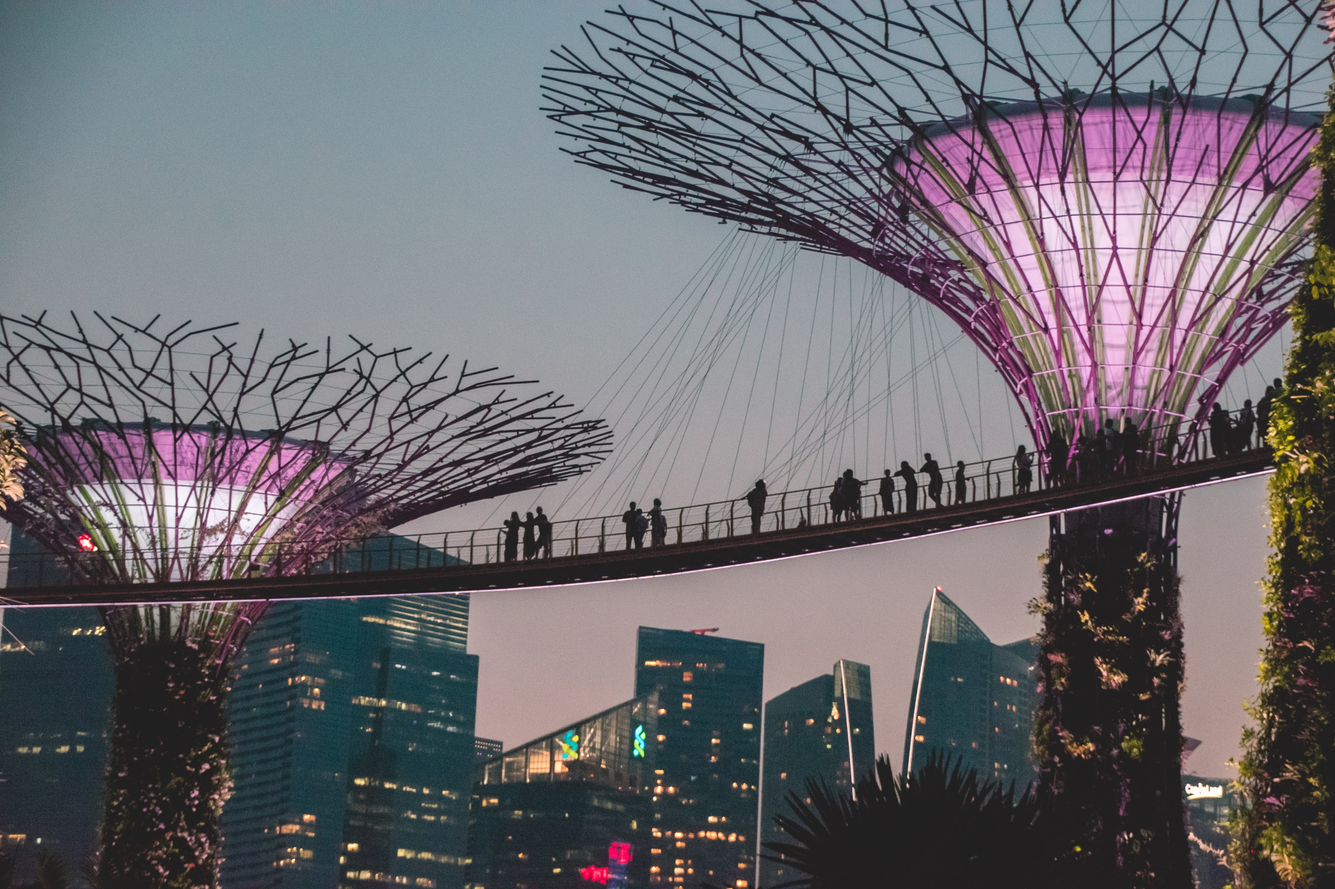
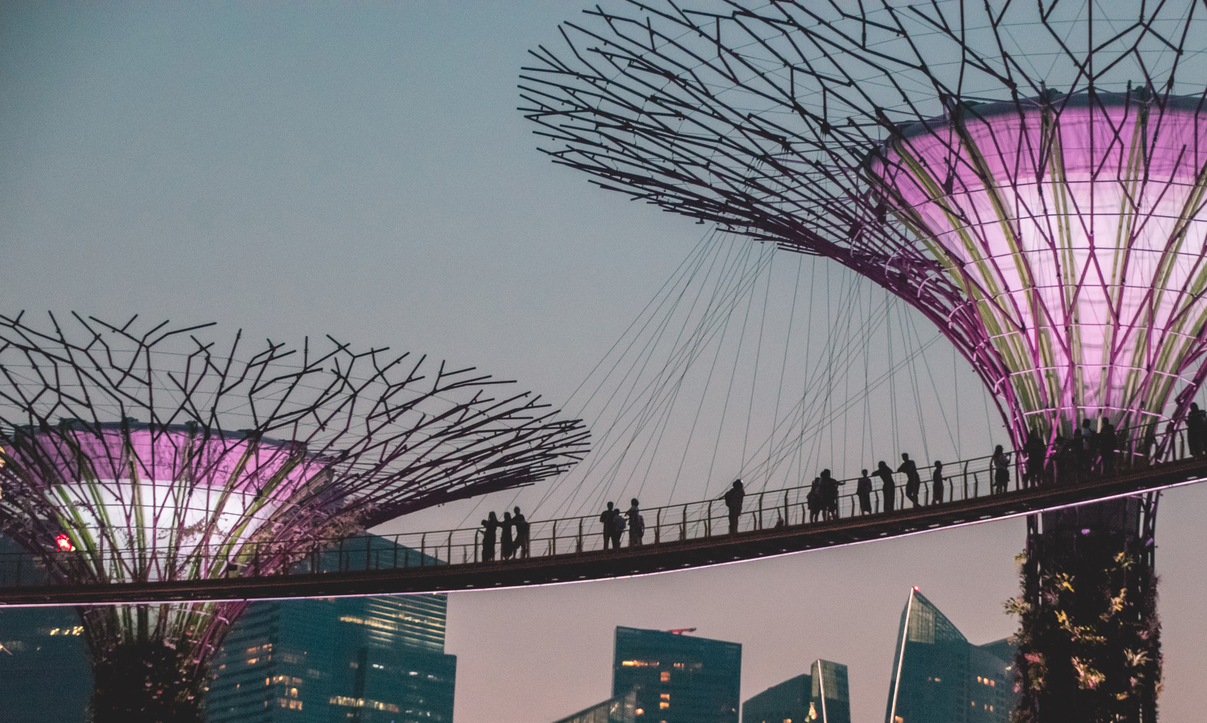
Resized and cropped slideshow images and switched to Next Image components for loading speed optimization purposes

diff --git a/components/WelcomeBanner.tsx b/components/WelcomeBanner.tsx
@@ -2,6 +2,7 @@
 import React, { useState, useEffect } from "react";
 import { useRouter } from "next/router";
 import styles from "../styles/WelcomeBanner.module.scss";
+import Image from "next/image";
 
 const Slideshow: React.FC<{images: string[]}> = ({ images }) => {
   const [currentImageIndex, setCurrentImageIndex] = useState(0);
@@ -18,7 +19,13 @@ const Slideshow: React.FC<{images: string[]}> = ({ images }) => {
 
   return (
     <div className={styles.slideshow}>
-      <img className={styles.slideshowImage} src={images[currentImageIndex]} alt="Slideshow" />
+      <Image 
+        className={styles.slideshowImage}
+        src={images[currentImageIndex]}
+        alt="Slideshow"
+        width={2500}
+        height={1500}
+      />
     </div>
   );
 };
@@ -63,7 +70,13 @@ const WelcomeBanner: React.FC = () => {
           "/images/welcome-banner/slideshow/3.jpg",
         ]} />
         <div className={styles.overlayContainer}>
-          <img src="images/header_logo.png" alt="Excursia Logo"  className={styles.logoOverlay}/>
+          <Image
+            src="/images/header_logo.png"
+            alt="Excursia Logo"
+            className={styles.logoOverlay}
+            width={655}
+            height={179}
+          />
           <button 
             className={styles.getStartedButton}
             onClick={() => router.push("/sign-up")}

diff --git a/styles/WelcomeBanner.module.scss b/styles/WelcomeBanner.module.scss
@@ -29,6 +29,7 @@
 
       & .logoOverlay {
         width: 500px;
+        height: auto;
 
         @media screen and (max-width: breakpoints.$phone-max) {
           width: 300px;
